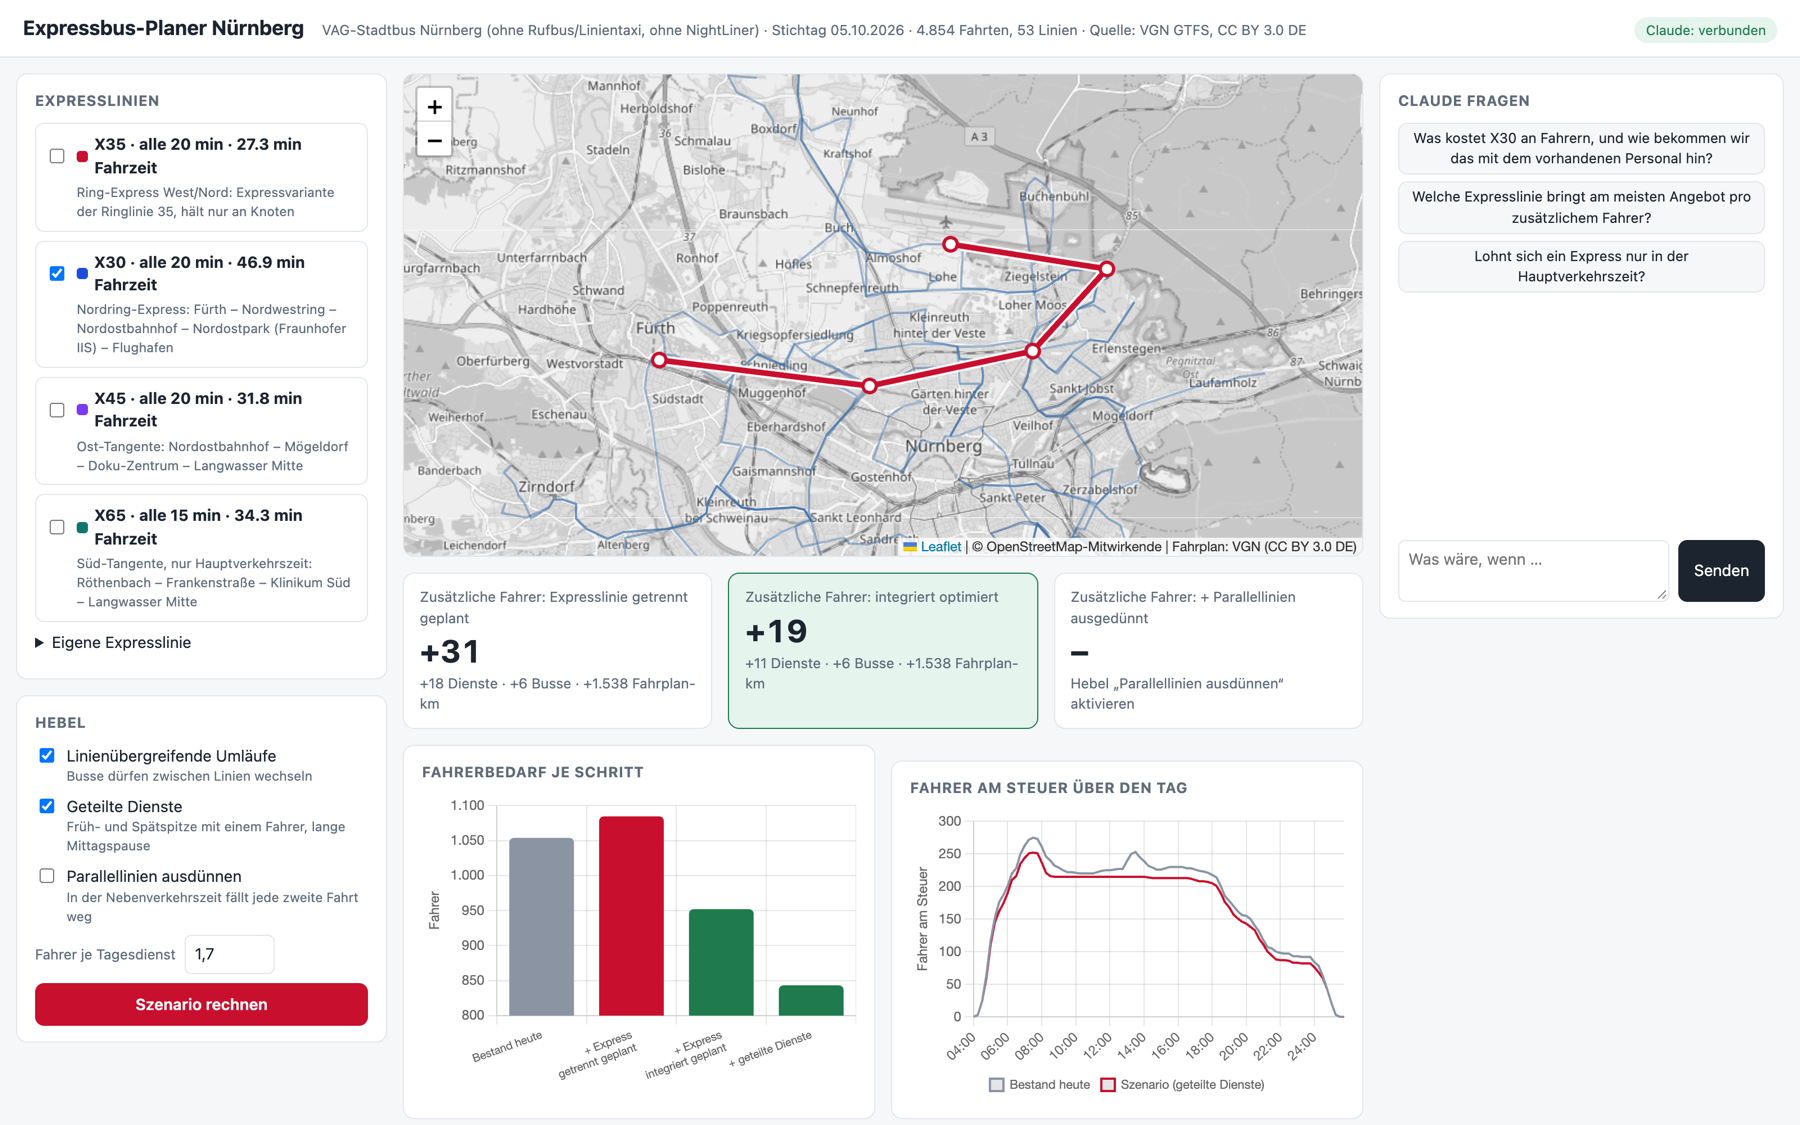
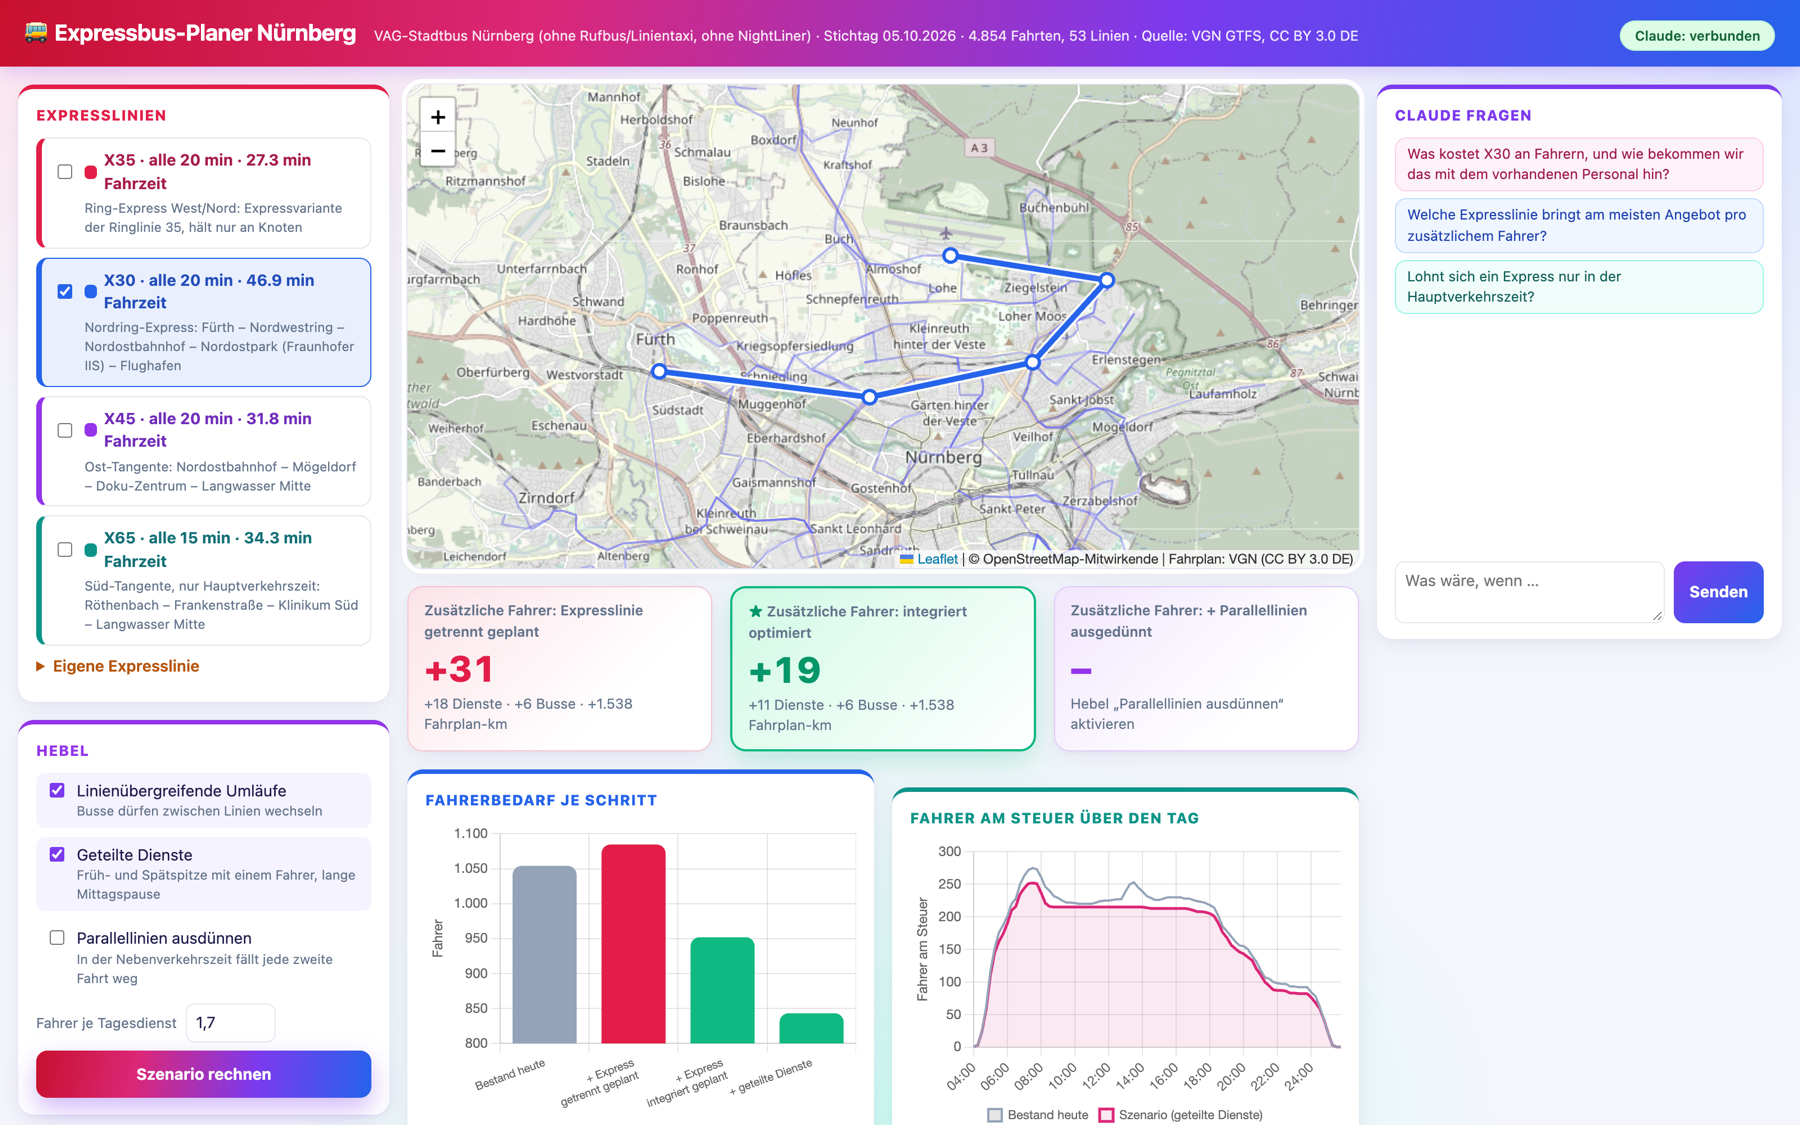
Oberfläche bunter: Verlaufs-Header, farbige Karten und Kennzahlen, Linienfarben einheitlich
Linienfarbe kommt jetzt über den Preset-Namen. Vorher zeigte die Liste X30
blau und die Karte rot, weil die Karte nach Auswahl-Index färbte.
Screenshot im README aktualisiert.

diff --git a/web/index.html b/web/index.html
@@ -9,73 +9,102 @@
 <script src="https://cdnjs.cloudflare.com/ajax/libs/Chart.js/4.4.1/chart.umd.min.js"></script>
 <style>
 :root {
-  --bg: #f6f7f9; --panel: #ffffff; --ink: #1c2430; --muted: #5f6b7a; --line: #e2e6eb;
-  --accent: #c8102e; --accent-soft: #fbe9ec; --good: #1f7a4d; --good-soft: #e5f4ec; --warn: #a15c00;
-  --x1: #c8102e; --x2: #1d4ed8; --x3: #7c3aed; --x4: #0f766e;
-  --radius: 10px; --gap: 14px;
+  --bg: #f4f6fb; --panel: #ffffff; --ink: #1e1b4b; --muted: #64748b; --line: #e5e7f0;
+  --accent: #e11d48; --accent-soft: #ffe4ea; --good: #059669; --good-soft: #d1fae5; --warn: #d97706;
+  --x1: #e11d48; --x2: #2563eb; --x3: #9333ea; --x4: #0d9488;
+  --grad: linear-gradient(100deg, #c8102e 0%, #db2777 30%, #7c3aed 65%, #2563eb 100%);
+  --radius: 14px; --gap: 16px; --shadow: 0 6px 20px rgba(49, 46, 129, .08), 0 1px 3px rgba(49, 46, 129, .06);
 }
 * { box-sizing: border-box; }
-body { margin: 0; font: 14px/1.45 system-ui, -apple-system, "Segoe UI", sans-serif; color: var(--ink); background: var(--bg); }
-header { display: flex; align-items: baseline; gap: 16px; padding: 12px 20px; background: var(--panel); border-bottom: 1px solid var(--line); flex-wrap: wrap; }
-header h1 { font-size: 18px; margin: 0; }
-header .sub { color: var(--muted); font-size: 12.5px; }
-header .pill { margin-left: auto; font-size: 12px; padding: 3px 10px; border-radius: 99px; background: var(--bg); color: var(--muted); }
-header .pill.on { background: var(--good-soft); color: var(--good); }
+body { margin: 0; font: 14px/1.45 system-ui, -apple-system, "Segoe UI", sans-serif; color: var(--ink);
+  background: radial-gradient(1200px 600px at 0% 0%, #ffe4ef 0%, transparent 60%),
+              radial-gradient(1000px 700px at 100% 10%, #e0e7ff 0%, transparent 55%),
+              radial-gradient(900px 600px at 50% 100%, #ccfbf1 0%, transparent 60%), var(--bg);
+  background-attachment: fixed; min-height: 100vh; }
+header { display: flex; align-items: baseline; gap: 16px; padding: 14px 22px; background: var(--grad); color: #fff; flex-wrap: wrap;
+  box-shadow: 0 4px 18px rgba(124, 58, 237, .25); }
+header h1 { font-size: 20px; margin: 0; letter-spacing: -.01em; }
+header h1::before { content: "🚌 "; }
+header .sub { color: rgba(255, 255, 255, .88); font-size: 12.5px; }
+header .pill { margin-left: auto; font-size: 12px; font-weight: 600; padding: 4px 12px; border-radius: 99px; background: rgba(255, 255, 255, .2); color: #fff; border: 1px solid rgba(255, 255, 255, .35); }
+header .pill.on { background: #dcfce7; color: #166534; border-color: #bbf7d0; }
 main { display: grid; grid-template-columns: 330px minmax(0, 1fr) 360px; gap: var(--gap); padding: var(--gap); align-items: start; }
 @media (max-width: 1250px) { main { grid-template-columns: 330px minmax(0, 1fr); } #chat { grid-column: 1 / -1; } }
 @media (max-width: 800px) { main { grid-template-columns: 1fr; padding: 10px; } }
-.card { background: var(--panel); border: 1px solid var(--line); border-radius: var(--radius); padding: 14px 16px; }
+.card { --ca: #6366f1; background: var(--panel); border: 0; border-top: 4px solid var(--ca); border-radius: var(--radius); padding: 14px 16px; box-shadow: var(--shadow); }
 .card + .card { margin-top: var(--gap); }
-h2 { font-size: 13px; text-transform: uppercase; letter-spacing: .04em; color: var(--muted); margin: 0 0 10px; }
-label.preset { display: grid; grid-template-columns: auto 1fr; gap: 4px 8px; padding: 8px; border: 1px solid var(--line); border-radius: 8px; margin-bottom: 8px; cursor: pointer; }
-label.preset:hover { border-color: #c5ccd5; }
-label.preset b { display: inline-flex; align-items: center; gap: 6px; }
+main > section:first-child > .card:nth-child(1) { --ca: #e11d48; }
+main > section:first-child > .card:nth-child(2) { --ca: #9333ea; }
+.charts .card:first-child { --ca: #2563eb; }
+.charts .card:last-child { --ca: #0d9488; }
+main > section:nth-child(2) > .card { --ca: #f59e0b; }
+#chat { --ca: #7c3aed; }
+h2 { font-size: 13px; text-transform: uppercase; letter-spacing: .06em; color: var(--ca, var(--muted)); margin: 0 0 10px; font-weight: 800; }
+label.preset { --c: #94a3b8; display: grid; grid-template-columns: auto 1fr; gap: 4px 8px; padding: 9px 10px; border: 1px solid var(--line); border-left: 5px solid var(--c); border-radius: 10px; margin-bottom: 8px; cursor: pointer; transition: background .15s, border-color .15s, transform .15s; }
+label.preset:hover { border-color: var(--c); transform: translateX(2px); }
+label.preset:has(input:checked) { background: color-mix(in srgb, var(--c) 10%, #fff); border-color: var(--c); }
+label.preset input { accent-color: var(--c); }
+label.preset b { display: inline-flex; align-items: center; gap: 6px; color: color-mix(in srgb, var(--c) 70%, var(--ink)); }
 label.preset small { grid-column: 2; color: var(--muted); }
-.swatch { width: 10px; height: 10px; border-radius: 3px; display: inline-block; }
+.swatch { width: 12px; height: 12px; border-radius: 4px; display: inline-block; }
+details summary { cursor: pointer; font-weight: 600; color: #b45309; }
 .row { display: flex; gap: 8px; align-items: center; margin-bottom: 8px; flex-wrap: wrap; }
 .row label { color: var(--muted); font-size: 12.5px; }
-input[type=text], input[type=number], select, textarea { font: inherit; padding: 6px 8px; border: 1px solid var(--line); border-radius: 6px; background: #fff; color: var(--ink); }
+input[type=text], input[type=number], select, textarea { font: inherit; padding: 6px 8px; border: 1px solid var(--line); border-radius: 8px; background: #fff; color: var(--ink); }
+input:focus, select:focus, textarea:focus { outline: 2px solid #c4b5fd; border-color: #8b5cf6; }
 textarea { width: 100%; resize: vertical; }
-.toggle { display: flex; gap: 8px; align-items: flex-start; margin-bottom: 8px; }
+.toggle { display: flex; gap: 8px; align-items: flex-start; margin-bottom: 8px; padding: 6px 8px; border-radius: 8px; }
+.toggle:has(input:checked) { background: #f5f3ff; }
+.toggle input { accent-color: #7c3aed; }
 .toggle small { display: block; color: var(--muted); }
-button { font: inherit; border: 0; border-radius: 8px; padding: 9px 14px; cursor: pointer; background: var(--ink); color: #fff; }
-button.primary { background: var(--accent); width: 100%; font-weight: 600; }
-button.ghost { background: transparent; color: var(--ink); border: 1px solid var(--line); padding: 5px 10px; }
+button { font: inherit; border: 0; border-radius: 10px; padding: 9px 14px; cursor: pointer; background: var(--ink); color: #fff; }
+button.primary { background: var(--grad); width: 100%; font-weight: 700; padding: 11px 14px; box-shadow: 0 6px 16px rgba(219, 39, 119, .3); transition: transform .15s, box-shadow .15s; }
+button.primary:hover { transform: translateY(-1px); box-shadow: 0 10px 22px rgba(124, 58, 237, .35); }
+button.ghost { background: #fff7ed; color: #b45309; border: 1px solid #fed7aa; padding: 5px 10px; font-weight: 700; }
 button:disabled { opacity: .55; cursor: progress; }
-.tiles { filter: grayscale(1) contrast(.9) brightness(1.05); }
-#map { height: 430px; border-radius: var(--radius); border: 1px solid var(--line); }
+.tiles { filter: grayscale(.55) saturate(.8) brightness(1.04); }
+#map { height: 430px; border-radius: var(--radius); border: 0; box-shadow: var(--shadow); outline: 4px solid #fff; }
 .kpis { display: grid; grid-template-columns: repeat(3, 1fr); gap: var(--gap); margin-top: var(--gap); }
 @media (max-width: 800px) { .kpis { grid-template-columns: 1fr; } }
-.kpi { background: var(--panel); border: 1px solid var(--line); border-radius: var(--radius); padding: 12px 14px; }
-.kpi .lab { color: var(--muted); font-size: 12.5px; }
-.kpi .val { font-size: 28px; font-weight: 700; font-variant-numeric: tabular-nums; }
+.kpi { --k: #e11d48; background: linear-gradient(135deg, color-mix(in srgb, var(--k) 12%, #fff), #fff 70%); border: 1px solid color-mix(in srgb, var(--k) 25%, #fff); border-radius: var(--radius); padding: 12px 14px; box-shadow: var(--shadow); }
+.kpi:nth-child(2) { --k: #2563eb; }
+.kpi:nth-child(3) { --k: #9333ea; }
+.kpi .lab { color: var(--muted); font-size: 12.5px; font-weight: 600; }
+.kpi .val { font-size: 32px; font-weight: 800; font-variant-numeric: tabular-nums; color: var(--k); }
 .kpi .det { color: var(--muted); font-size: 12.5px; }
-.kpi.best { border-color: var(--good); background: var(--good-soft); }
+.kpi.best { --k: #059669; border: 2px solid #10b981; background: linear-gradient(135deg, #d1fae5, #ecfdf5 60%, #fff); box-shadow: 0 8px 24px rgba(16, 185, 129, .25); }
+.kpi.best .lab::before { content: "★ "; color: #059669; }
 .charts { display: grid; grid-template-columns: 1fr 1fr; gap: var(--gap); margin-top: var(--gap); }
 @media (max-width: 1000px) { .charts { grid-template-columns: 1fr; } }
 .chartbox { position: relative; height: 260px; }
 table { width: 100%; border-collapse: collapse; font-variant-numeric: tabular-nums; }
-th, td { text-align: right; padding: 6px 8px; border-bottom: 1px solid var(--line); white-space: nowrap; }
+th, td { text-align: right; padding: 7px 8px; border-bottom: 1px solid var(--line); white-space: nowrap; }
 th:first-child, td:first-child { text-align: left; white-space: normal; }
-th { font-size: 12px; color: var(--muted); font-weight: 600; }
+th { font-size: 12px; color: #92400e; font-weight: 700; background: #fffbeb; }
+tbody tr:nth-child(even) { background: #fafaff; }
+tbody tr:hover { background: #fef3c7; }
 td .d { color: var(--muted); font-size: 12px; margin-left: 4px; }
-.tablewrap { overflow-x: auto; }
+.tablewrap { overflow-x: auto; border-radius: 10px; }
 .note { color: var(--muted); font-size: 12.5px; margin-top: 8px; }
 .empty { color: var(--muted); padding: 30px 0; text-align: center; }
-.spinner { display: none; align-items: center; gap: 10px; color: var(--muted); margin-top: 10px; }
+.spinner { display: none; align-items: center; gap: 10px; color: #7c3aed; margin-top: 10px; }
 .spinner.on { display: flex; }
-.spinner i { width: 16px; height: 16px; border: 2px solid var(--line); border-top-color: var(--accent); border-radius: 50%; animation: spin 0.9s linear infinite; }
+.spinner i { width: 16px; height: 16px; border: 2px solid #ede9fe; border-top-color: #db2777; border-right-color: #7c3aed; border-radius: 50%; animation: spin 0.9s linear infinite; }
 @keyframes spin { to { transform: rotate(360deg); } }
 #chat { position: sticky; top: var(--gap); display: flex; flex-direction: column; max-height: calc(100vh - 90px); }
 #msgs { flex: 1; overflow-y: auto; min-height: 200px; display: flex; flex-direction: column; gap: 10px; padding-right: 4px; }
-.msg { padding: 9px 12px; border-radius: 10px; white-space: pre-wrap; }
-.msg.user { background: var(--ink); color: #fff; align-self: flex-end; max-width: 90%; }
-.msg.bot { background: var(--bg); border: 1px solid var(--line); }
+.msg { padding: 9px 12px; border-radius: 12px; white-space: pre-wrap; }
+.msg.user { background: linear-gradient(135deg, #7c3aed, #2563eb); color: #fff; align-self: flex-end; max-width: 90%; border-bottom-right-radius: 4px; }
+.msg.bot { background: #f5f3ff; border: 1px solid #ddd6fe; border-bottom-left-radius: 4px; }
 .msg.err { background: var(--accent-soft); color: var(--accent); }
 #chatform { display: flex; gap: 8px; margin-top: 10px; }
 #chatform textarea { flex: 1; min-height: 44px; }
+#chatform button { background: linear-gradient(135deg, #7c3aed, #2563eb); font-weight: 700; }
 .chips { display: flex; flex-wrap: wrap; gap: 6px; margin-bottom: 10px; }
-.chips button { background: var(--bg); color: var(--ink); border: 1px solid var(--line); padding: 4px 9px; font-size: 12.5px; }
+.chips button { background: #fdf2f8; color: #9d174d; border: 1px solid #fbcfe8; padding: 5px 10px; font-size: 12.5px; text-align: left; transition: transform .15s; }
+.chips button:nth-child(2) { background: #eff6ff; color: #1e40af; border-color: #bfdbfe; }
+.chips button:nth-child(3) { background: #f0fdfa; color: #115e59; border-color: #99f6e4; }
+.chips button:hover { transform: translateY(-1px); }
 .err-banner { background: var(--accent-soft); color: var(--accent); border-radius: 8px; padding: 8px 10px; margin-top: 10px; display: none; }
 </style>
 </head>
@@ -164,7 +193,10 @@ td .d { color: var(--muted); font-size: 12px; margin-left: 4px; }
 </main>
 
 <script>
-const COLORS = ["#c8102e", "#1d4ed8", "#7c3aed", "#0f766e", "#b45309"];
+const COLORS = ["#e11d48", "#2563eb", "#9333ea", "#0d9488"];
+const CUSTOM_COLOR = "#f59e0b";  // eigene Expresslinie
+// Farbe je Linie über den Preset-Index, damit Liste und Karte dieselbe Farbe zeigen
+const colorFor = (name) => { const i = presets.findIndex(p => p.name === name); return i < 0 ? CUSTOM_COLOR : COLORS[i % COLORS.length]; };
 const PERIODS = { day: [["06:00", "20:00"]], hvz: [["06:00", "09:00"], ["15:00", "19:00"]], long: [["05:00", "23:00"]] };
 const $ = (id) => document.getElementById(id);
 const fmt = (v, d = 0) => v == null ? "–" : Number(v).toLocaleString("de-DE", { minimumFractionDigits: d, maximumFractionDigits: d });
@@ -182,7 +214,7 @@ const xLayer = L.layerGroup().addTo(map);
 
 fetch("/api/network").then(r => r.json()).then(gj => {
   L.geoJSON(gj, {
-    style: { color: "#3b6ea8", weight: 2, opacity: 0.45 },
+    style: { color: "#6366f1", weight: 2, opacity: 0.4 },
     onEachFeature: (f, l) => l.bindTooltip("Linie " + f.properties.line, { sticky: true }),
   }).addTo(netLayer);
 });
@@ -190,8 +222,8 @@ fetch("/api/network").then(r => r.json()).then(gj => {
 function drawExpress(lines) {
   xLayer.clearLayers();
   const bounds = [];
-  lines.forEach((x, i) => {
-    const c = COLORS[i % COLORS.length];
+  lines.forEach((x) => {
+    const c = colorFor(x.name);
     const ll = x.stations.map(s => [s.lat, s.lon]);
     bounds.push(...ll);
     L.polyline(ll, { color: "#fff", weight: 9, opacity: 0.9 }).addTo(xLayer);
@@ -208,7 +240,7 @@ fetch("/api/meta").then(r => r.json()).then(m => {
   presets = m.presets;
   $("sub").textContent = `${m.meta.scope} · Stichtag ${m.meta.service_day.replace(/(\d{4})(\d\d)(\d\d)/, "$3.$2.$1")} · ${fmt(m.meta.trips)} Fahrten, ${m.meta.lines} Linien · Quelle: VGN GTFS, CC BY 3.0 DE`;
   $("presets").innerHTML = presets.map((p, i) => `
-    <label class="preset"><input type="checkbox" value="${p.name}" ${i === 1 ? "checked" : ""}>
+    <label class="preset" style="--c:${COLORS[i % COLORS.length]}"><input type="checkbox" value="${p.name}" ${i === 1 ? "checked" : ""}>
       <b><span class="swatch" style="background:${COLORS[i % COLORS.length]}"></span>${p.name} · alle ${p.headway} min · ${p.info.fahrzeit_min} min Fahrzeit</b>
       <small>${p.description}</small></label>`).join("");
   $("presets").addEventListener("change", previewSelection);
@@ -294,7 +326,7 @@ function render(res) {
   charts.steps = new Chart($("cSteps"), {
     type: "bar",
     data: { labels: steps.map(s => s.schritt.replace(/^\+ /, "+ ").split(", ")), datasets: [{ data: steps.map(s => s.kpi.fahrer_bedarf),
-      backgroundColor: steps.map((s, i) => i === 0 ? "#8a94a3" : s.delta.fahrer_bedarf > 0 ? "#c8102e" : "#1f7a4d"), borderRadius: 4 }] },
+      backgroundColor: steps.map((s, i) => i === 0 ? "#94a3b8" : s.delta.fahrer_bedarf > 0 ? "#e11d48" : "#10b981"), borderRadius: 8 }] },
     options: { maintainAspectRatio: false, plugins: { legend: { display: false },
       tooltip: { callbacks: { label: c => `${fmt(c.raw)} Fahrer (${sign(steps[c.dataIndex].delta.fahrer_bedarf)})` } } },
       scales: { y: { beginAtZero: false, title: { display: true, text: "Fahrer" } }, x: { ticks: { font: { size: 10 } } } } },
@@ -303,8 +335,8 @@ function render(res) {
   charts.profile = new Chart($("cProfile"), {
     type: "line",
     data: { labels: first.profil.t, datasets: [
-      { label: first.schritt, data: first.profil.fahrer, borderColor: "#8a94a3", pointRadius: 0, borderWidth: 2 },
-      { label: "Szenario (" + last.schritt.replace(/^\+ /, "") + ")", data: last.profil.fahrer, borderColor: "#c8102e", pointRadius: 0, borderWidth: 2 },
+      { label: first.schritt, data: first.profil.fahrer, borderColor: "#94a3b8", pointRadius: 0, borderWidth: 2 },
+      { label: "Szenario (" + last.schritt.replace(/^\+ /, "") + ")", data: last.profil.fahrer, borderColor: "#db2777", backgroundColor: "rgba(219, 39, 119, .10)", fill: true, pointRadius: 0, borderWidth: 2.5 },
     ] },
     options: { maintainAspectRatio: false, interaction: { mode: "index", intersect: false },
       plugins: { legend: { position: "bottom", labels: { boxWidth: 12, font: { size: 11 } } } },
